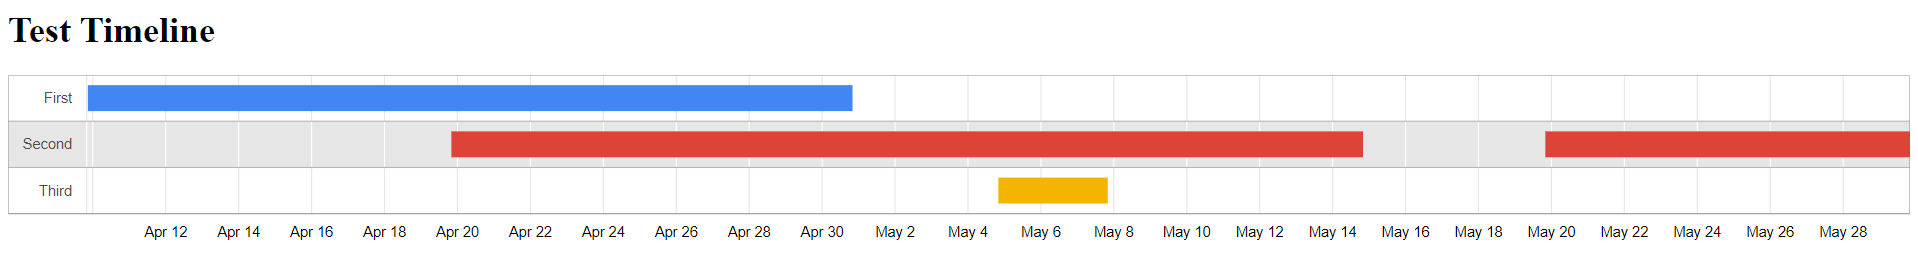
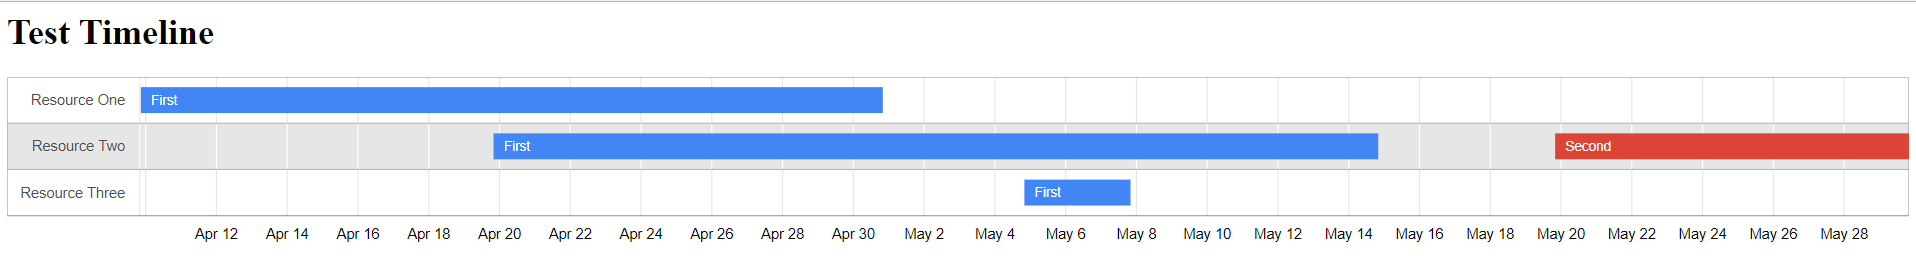
Add labels to timeline

diff --git a/README.md b/README.md
@@ -25,25 +25,29 @@ jsonData: required, string, JSON array with one or more key-value pairs for each
 reportName: optional, string, report name to be used as file name as well
 
 ### Timeline
-jsonData: required, string, JSON array with items defined by resource, startDate, and endData.
+jsonData: required, string, JSON array with items defined by resource, label, startDate, and endData.
 ```JSON
 [
 	{
-		"resource": "First",
+		"resource": "Resource One",
+		"label": "First",
 		"startDate":  "2018/4/10",
 		"endDate": "2018/5/1"
 	},
 	{
-		"resource": "Second",
+		"resource": "Resource Two",
+		"label": "First",
 		"startDate":  "2018/4/20",
 		"endDate": "2018/5/15"
 	},
 	{
-		"resource": "Second",
+		"resource": "Resource Two",
+		"label": "Second",
 		"startDate":  "2018/5/20",
 		"endDate": "2018/5/30"
 	},		{
-		"resource": "Third",
+		"resource": "Resource Three",
+		"label": "First",
 		"startDate":  "2018/5/5",
 		"endDate": "2018/5/8"
 	}
